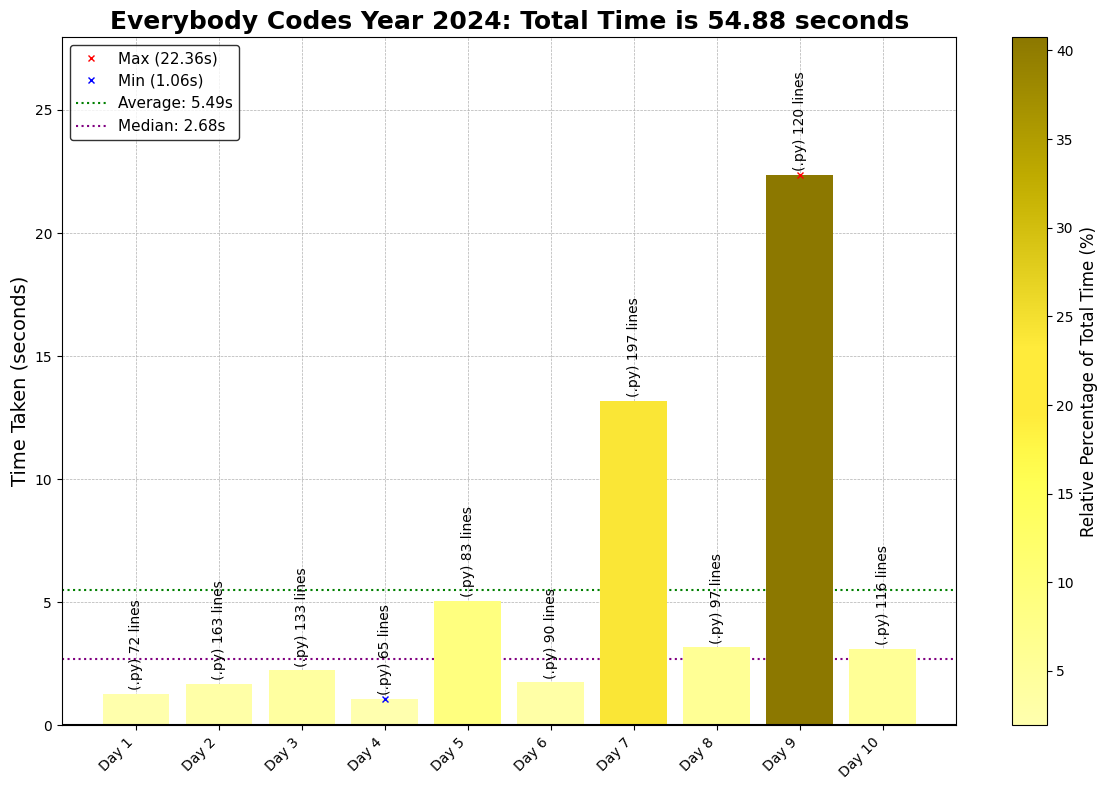
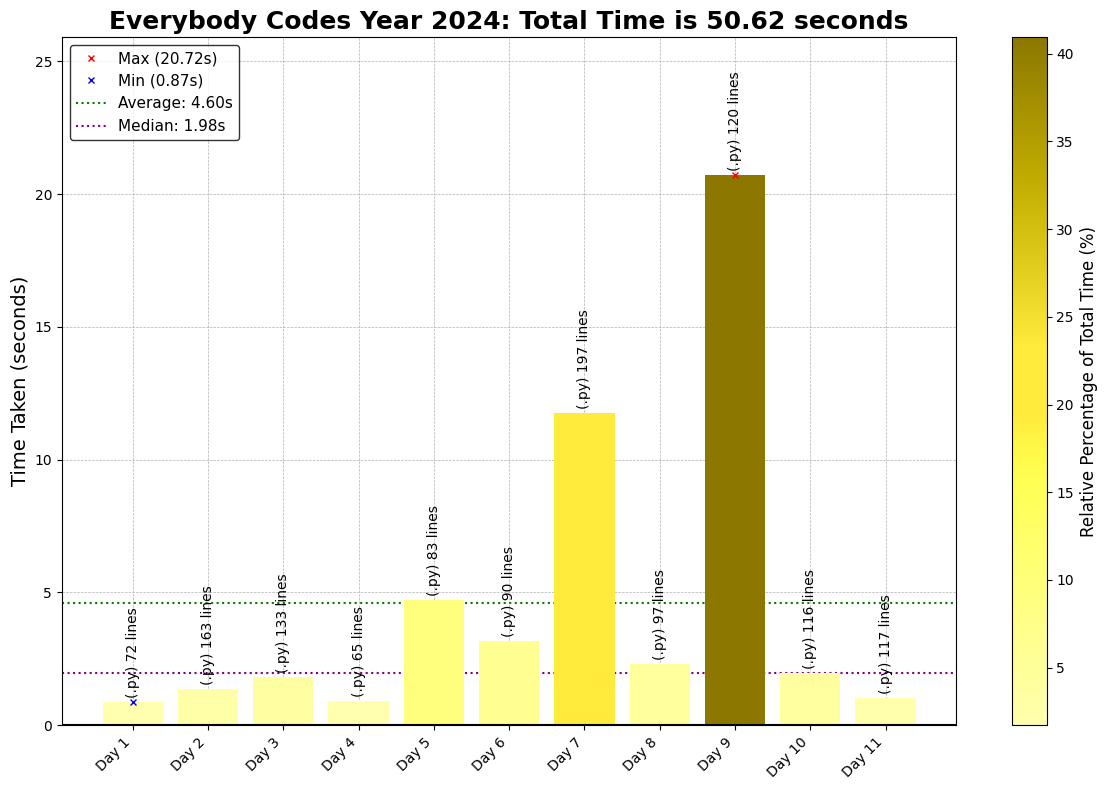
2024 Day 11

diff --git a/2024/11/2024Day11.py b/2024/11/2024Day11.py
@@ -1,0 +1,69 @@
+# Everybody Codes - Day 11, Year 2024
+# Solved in 2024
+# Puzzle Link: https://everybody.codes/event/2024/quests/11
+# Solution by: [abbasmoosajee07]
+# Brief: [Code/Problem Description]
+
+#!/usr/bin/env python3
+
+import os, re, copy
+import numpy as np
+import pandas as pd
+import matplotlib.pyplot as plt
+from collections import defaultdict
+
+# List of input file names
+input_files = ["Day11_p1_input.txt", "Day11_p2_input.txt", "Day11_p3_input.txt"]
+
+# Read and split the input data into individual lists
+input_data_p1, input_data_p2, input_data_p3 = [
+    open(os.path.join(os.path.dirname(__file__), file)).read().strip().split('\n')
+    for file in input_files
+]
+
+# Now, input_data_p1, input_data_p2, input_data_p3 contain the respective data
+# print(input_data_p1), print(input_data_p2), print(input_data_p3)
+
+def parse_to_dict(strings):
+    result = {}
+    for string in strings:
+        key, values = string.split(":", 1)
+        result[key] = values.split(",")
+    return result
+
+# Example input
+
+def termite_growth(input_data, total_gen, start = 'A'):
+    growth_possibilities = parse_to_dict(input_data)
+    termite_pop = [start]
+
+    for gen in range(1, total_gen + 1):  # Iterate over generations
+        next_gen = []  # Holds the next generation
+        for termite in termite_pop:  # Process each termite in the current population
+            offspring = growth_possibilities.get(termite, [])  # Get offspring from parsed_dict
+            next_gen.extend(offspring)  # Add offspring to next generation
+        termite_pop = next_gen  # Update termite_pop for the next generation
+    return len(termite_pop)
+
+ans_p1 = termite_growth(input_data_p1, 4, 'A')
+print(f"Quest 1: {ans_p1}")
+
+ans_p2 = termite_growth(input_data_p2, 10, 'Z')
+print(f"Quest 2: {ans_p2}")
+
+termite_pop_count = {}
+parsed_dict = parse_to_dict(input_data_p3)  # Assuming input_data_p3 is your input
+for termite in parsed_dict.keys():
+    current_population = {termite: 1}
+    for _ in range(20):
+        next_population = defaultdict(int)
+        for k, v in current_population.items():
+            for offspring in parsed_dict[k]:
+                next_population[offspring] += v
+        current_population = next_population
+    termite_pop_count[termite] = sum(current_population.values())
+
+max_population = max(termite_pop_count.values())
+min_population = min(termite_pop_count.values())
+ans_p3 = max_population - min_population
+print(f"Quest 3: {ans_p3}")
